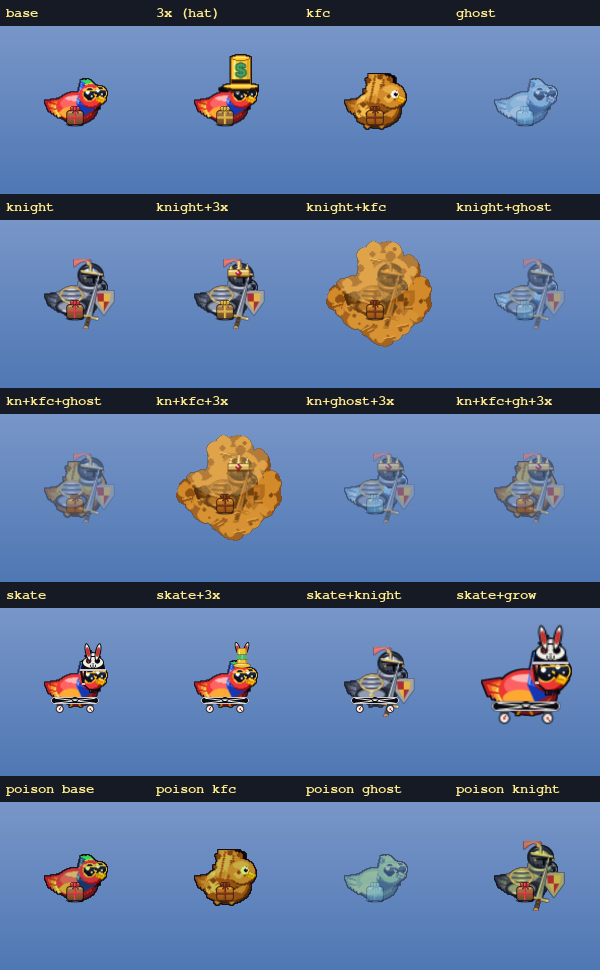
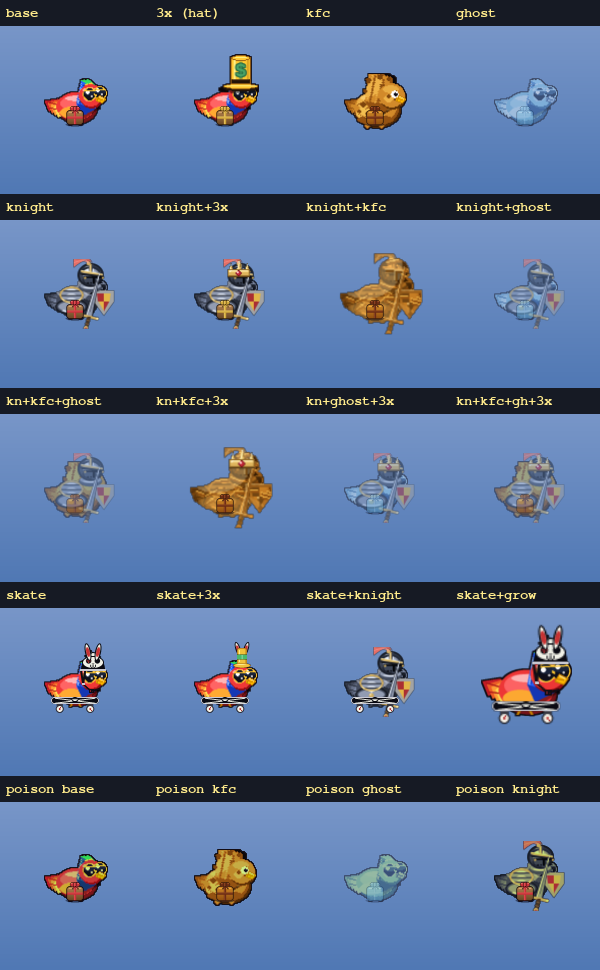
Fried knight: wire in the design-loop ship recipe (clean crispy, readable, +15%)
Replace the placeholder _deep_fry with the design-loop winner (graphics-designer x
art-director, 3 rounds): golden-brown recolor (214,142,46)/(44,22,2) + plate-
distributed spots/crackle (focal helm+shield thinned) + upper-left juicy grease
sheen + low belly-glow with the helm-gorget/shield-chest seam de-puffed + a 1px
on-silhouette contour, then the helm T-slit / shield boss / sword re-cut as
darker-golden recessed insets so the knight still names at gameplay size. Applied
the art-director's final wire-ins: darker focal insets (120,74,20)@230 on the
helm slit + shield boss, and a lengthened sword crossguard. Clean deep-fry of the
knight itself at 1.15x plump -- appetizing, crispy, bigger, NO crust shell.
Flows into the knight+kfc+3x crown stack (crown seats + scales correctly).

https://claude.ai/code/session_0198wUfDSqXDZqGjdP4sx98r

Changed region(s): [[0.54, 0.2474, 0.72, 0.3711], [0.3, 0.433, 0.48, 0.5567]]

diff --git a/game/knight_skin.py b/game/knight_skin.py
@@ -274,28 +274,170 @@ def plump_frames(frames):
     return out
 
 
-def _deep_fry(frame):
-    """Deep-fry a knight frame the SAME way the fried parrot is fried
-    (parrot._build_fried_frame): recolor its luminance onto the crispy golden
-    batter ramp, then add fried TEXTURE clamped to the silhouette — small crispy
-    spots + crackle lines (dark valley + light ridge = raised batter) + a juicy
-    golden grease sheen. A clean crispy skin ON the knight itself (no crust
-    shell). Fixed rng seed keeps the texture stable across the 4 wing frames."""
-    out = _recolor(frame, _CRISPY_GOLD, add=(44, 20, 2))   # rich golden-brown batter
+# ── FRIED-KNIGHT deep-fry recipe (design-loop ship build) ────────────────────
+# Plate-region map: fractions of the un-padded body rect, mirroring the _P()
+# anchors _build_knight_frame uses, each with a relative crackle DENSITY weight.
+# `focal` plates (helm face, shield) get crackle thinned so the recessed
+# landmark insets drawn on top stay legible.
+# (fx, fy, rw, rh, weight, spot_max, focal)
+_PLATE_REGIONS = [
+    (0.45, 0.62, 0.50, 0.30, 2.6, 2, False),   # breastplate — large flat, densest
+    (0.92, 0.58, 0.36, 0.46, 2.4, 2, True),    # shield — focal
+    (0.45, 0.46, 0.42, 0.34, 0.7, 1, False),   # pauldron — sparse
+    (0.73, 0.17, 0.50, 0.54, 1.3, 2, True),    # helm — focal
+    (0.74, 0.50, 0.30, 0.95, 0.5, 1, False),   # sword — very sparse
+    (0.30, 0.55, 0.40, 0.45, 1.1, 2, False),   # belly skirt — denser
+]
+_FOCAL_CRACKLE_KEEP = 0.75
+
+# Landmark insets: thin darker-golden recessed grooves re-cut on top of the fry
+# so the helm T-slit / shield boss / sword still name the knight at gameplay
+# size. The two FOCAL reads (helm slit + shield boss) use a darker, more opaque
+# groove for a wider value gap that survives the downscale.
+_INSET_DARK = (150, 92, 28); _INSET_DARK_A = 205
+_INSET_FOCAL = (120, 74, 20); _INSET_FOCAL_A = 230
+_INSET_LIT = (255, 226, 150); _INSET_LIT_A = 120
+
+
+def _fry_texture_by_plate(out, total_spots, total_crackle, seed=0x5C0FFEE):
+    """Crispy spots + crackle distributed BY PLATE SIZE, clamped to the
+    silhouette (no shell); focal-plate crackle thinned so the insets read."""
     w, h = out.get_size()
+    pad = _PAD
+    bw, bh = w - 2 * pad, h - 2 * pad
     tex = pygame.Surface((w, h), pygame.SRCALPHA)
-    rng = random.Random(0x5C0FFEE)
-    for _ in range(70):                                    # fine crispy spots
-        pygame.draw.circle(tex, _CRISPY_SPOT,
-                           (rng.randint(0, w - 1), rng.randint(0, h - 1)), rng.randint(1, 2))
-    for _ in range(24):                                    # crackle: dark valley + light ridge
-        x1, y1 = rng.randint(2, w - 12), rng.randint(2, h - 12)
-        dx, dy = rng.randint(5, 11), rng.randint(-5, 5)
-        pygame.draw.line(tex, _CRISPY_DARK, (x1, y1), (x1 + dx, y1 + dy), 2)
-        pygame.draw.line(tex, _CRISPY_LIGHT, (x1 - 1, y1 - 1), (x1 + dx - 1, y1 + dy - 1), 1)
+    rng = random.Random(seed)
+    boxes = []
+    wsum = 0.0
+    for fx, fy, rw, rh, weight, smax, focal in _PLATE_REGIONS:
+        cx, cy = pad + fx * bw, pad + fy * bh
+        rbw, rbh = rw * bw, rh * bh
+        a = rbw * rbh * weight
+        boxes.append((cx - rbw / 2, cy - rbh / 2, rbw, rbh, smax, a, focal))
+        wsum += a
+    for bx, by, rbw, rbh, smax, a, focal in boxes:
+        for _ in range(max(1, int(round(total_spots * a / wsum)))):
+            px = max(0, min(w - 1, int(bx + rng.random() * rbw)))
+            py = max(0, min(h - 1, int(by + rng.random() * rbh)))
+            pygame.draw.circle(tex, _CRISPY_SPOT, (px, py), rng.randint(1, smax))
+        nc = max(0, int(round(total_crackle * a / wsum)))
+        if focal:
+            nc = int(round(nc * _FOCAL_CRACKLE_KEEP))
+        for _ in range(nc):
+            x1 = int(max(2, min(w - 12, bx + rng.random() * rbw)))
+            y1 = int(max(2, min(h - 12, by + rng.random() * rbh)))
+            dx, dy = rng.randint(5, 11), rng.randint(-5, 5)
+            pygame.draw.line(tex, _CRISPY_DARK, (x1, y1), (x1 + dx, y1 + dy), 2)
+            pygame.draw.line(tex, _CRISPY_LIGHT, (x1 - 1, y1 - 1), (x1 + dx - 1, y1 + dy - 1), 1)
     tex.blit(_amask(out), (0, 0), special_flags=pygame.BLEND_RGBA_MIN)
     out.blit(tex, (0, 0))
-    _sheen(out, (255, 232, 160), (238, 186, 96), top_a=64, bot_a=40)   # juicy gloss
+
+
+def _sheen_upper(sprite, top_col, bot_col, top_a, bot_a):
+    """Grease gloss anchored UPPER-LEFT to match the fried parrot's highlight,
+    peak pulled down so it's wet gloss not hot plastic. Masked, no halo."""
+    w, h = sprite.get_size()
+    ov = pygame.Surface((w, h), pygame.SRCALPHA)
+    pygame.draw.ellipse(ov, (*top_col, top_a), (int(w * 0.10), int(-h * 0.10), int(w * 0.62), int(h * 0.60)))
+    pygame.draw.ellipse(ov, (*bot_col, bot_a), (int(w * 0.12), int(h * 0.50), int(w * 0.78), int(h * 0.56)))
+    ov.blit(_amask(sprite), (0, 0), special_flags=pygame.BLEND_RGBA_MIN)
+    sprite.blit(ov, (0, 0))
+
+
+def _belly_glow(out, alpha):
+    """Low, centred warm 'juicy inside' glow, masked to the body so it never
+    rings the outside; the upper seam band is punched out ~35% so the puff stops
+    bridging the helm-gorget and shield-chest plates into a lump."""
+    w, h = out.get_size()
+    glow = pygame.Surface((w, h), pygame.SRCALPHA)
+    pygame.draw.ellipse(glow, (255, 200, 104, alpha), (int(w * 0.26), int(h * 0.50), int(w * 0.40), int(h * 0.30)))
+    seam = pygame.Surface((w, h), pygame.SRCALPHA)
+    sy0, sy1 = int(h * 0.40), int(h * 0.56)
+    cut, band_h = int(255 * 0.35), max(1, int(h * 0.56) - int(h * 0.40))
+    for j in range(band_h):
+        a = int(cut * (1.0 - abs(j / band_h - 0.5) * 2.0))
+        if a > 0:
+            pygame.draw.line(seam, (0, 0, 0, a), (0, sy0 + j), (w, sy0 + j))
+    glow.blit(seam, (0, 0), special_flags=pygame.BLEND_RGBA_SUB)
+    glow.blit(_amask(out), (0, 0), special_flags=pygame.BLEND_RGBA_MIN)
+    out.blit(glow, (0, 0))
+
+
+def _contour(out, col, alpha):
+    """A 1px darker-golden line ON the outer silhouette so the knight read holds
+    against a bright sheen on a night sky."""
+    line = pygame.Surface(out.get_size(), pygame.SRCALPHA)
+    for comp in pygame.mask.from_surface(out, 40).connected_components():
+        pts = comp.outline(1)
+        if len(pts) >= 2:
+            pygame.draw.lines(line, (*col, alpha), True, pts, 1)
+    line.blit(_amask(out), (0, 0), special_flags=pygame.BLEND_RGBA_MIN)
+    out.blit(line, (0, 0))
+
+
+def _landmark_insets(out):
+    """Re-cut the helm T-slit, shield boss/edge and sword as darker-golden
+    recessed grooves (lit 1px up-left) ON the fried sprite, at the real plate
+    anchors, so the knight still names at ~28px. Focal reads use the darker
+    groove; the sword crossguard is lengthened so the cruciform carries it."""
+    w, h = out.get_size()
+    pad = _PAD
+    bw, bh = w - 2 * pad, h - 2 * pad
+    ov = pygame.Surface((w, h), pygame.SRCALPHA)
+
+    def bx(fx):
+        return pad + fx * bw
+
+    def by(fy):
+        return pad + fy * bh
+
+    def groove(p0, p1, width=2, dark=_INSET_DARK, dark_a=_INSET_DARK_A):
+        pygame.draw.line(ov, (*dark, dark_a), p0, p1, width)
+        pygame.draw.line(ov, (*_INSET_LIT, _INSET_LIT_A), (p0[0] - 1, p0[1] - 1), (p1[0] - 1, p1[1] - 1), 1)
+
+    # helm visor T-slit (focal — darker groove) at the real visor line
+    hcx, hcy, hw, hh = bx(0.73), by(0.17), 0.50 * bw, 0.54 * bh
+    brow_y = hcy - 0.10 * hh
+    groove((int(hcx - 0.22 * hw), int(brow_y)), (int(hcx + 0.24 * hw), int(brow_y + 0.02 * hh)), 2, _INSET_FOCAL, _INSET_FOCAL_A)
+    groove((int(hcx + 0.02 * hw), int(brow_y + 0.02 * hh)), (int(hcx + 0.02 * hw), int(hcy + 0.16 * hh)), 2, _INSET_FOCAL, _INSET_FOCAL_A)
+    # shield heater edge (standard groove) + boss ring (focal — darker)
+    sfx, sfy, swf, shf = _SHIELD_POS
+    scx, scy, sw, sh = bx(sfx), by(sfy), swf * bw, shf * bh
+    top, waist, pt_y = scy - 0.40 * sh, scy + 0.02 * sh, scy + 0.50 * sh
+    lx, rx = scx - 0.46 * sw, scx + 0.46 * sw
+    heater = [(int(lx), int(top)), (int(rx), int(top)), (int(rx), int(waist)), (int(scx), int(pt_y)), (int(lx), int(waist))]
+    for a, b in zip(heater, heater[1:] + heater[:1]):
+        groove(a, b, 2)
+    pygame.draw.circle(ov, (*_INSET_FOCAL, _INSET_FOCAL_A), (int(scx), int(scy)), max(2, int(0.12 * sw)), 2)
+    pygame.draw.circle(ov, (*_INSET_LIT, _INSET_LIT_A), (int(scx - 1), int(scy - 1)), max(1, int(0.05 * sw)))
+    # sword spine + (lengthened) crossguard
+    scx2, scy2, sww, swh = bx(0.74), by(0.50), 0.50 * bw, 0.95 * bh
+    gx, gy = scx2 + (0.42 - 0.5) * sww, scy2 + (0.80 - 0.5) * swh
+    tx, ty = scx2 + (0.74 - 0.5) * sww, scy2 + (0.06 - 0.5) * swh
+    groove((int(gx), int(gy)), (int(tx), int(ty)), 2)
+    ux, uy = tx - gx, ty - gy
+    ln = math.hypot(ux, uy) or 1.0
+    px, py = -uy / ln, ux / ln
+    cg = 0.065 * swh
+    groove((int(gx + px * cg), int(gy + py * cg)), (int(gx - px * cg), int(gy - py * cg)), 2)
+    ov.blit(_amask(out), (0, 0), special_flags=pygame.BLEND_RGBA_MIN)
+    out.blit(ov, (0, 0))
+
+
+def _deep_fry(frame):
+    """THE FRIED KNIGHT deep-fry (design-loop ship recipe). Golden-brown crispy
+    recolor + plate-distributed spots/crackle (focal plates thinned) + an
+    upper-left juicy grease sheen + a low belly-glow (seams de-puffed) + a 1px
+    on-silhouette contour, then the helm T-slit / shield boss / sword re-cut as
+    darker-golden recessed insets so the knight still names at gameplay size.
+    A clean deep-fry of the knight ITSELF — no crust shell. Fixed rng seed keeps
+    the texture stable across the 4 wing frames."""
+    out = _recolor(frame, (214, 142, 46), add=(44, 22, 2))   # golden-brown batter
+    _fry_texture_by_plate(out, 70, 24)
+    _belly_glow(out, 54)
+    _sheen_upper(out, (255, 240, 188), (244, 200, 116), 74, 46)
+    _landmark_insets(out)
+    _contour(out, (150, 92, 28), 150)
     return out
 
 
